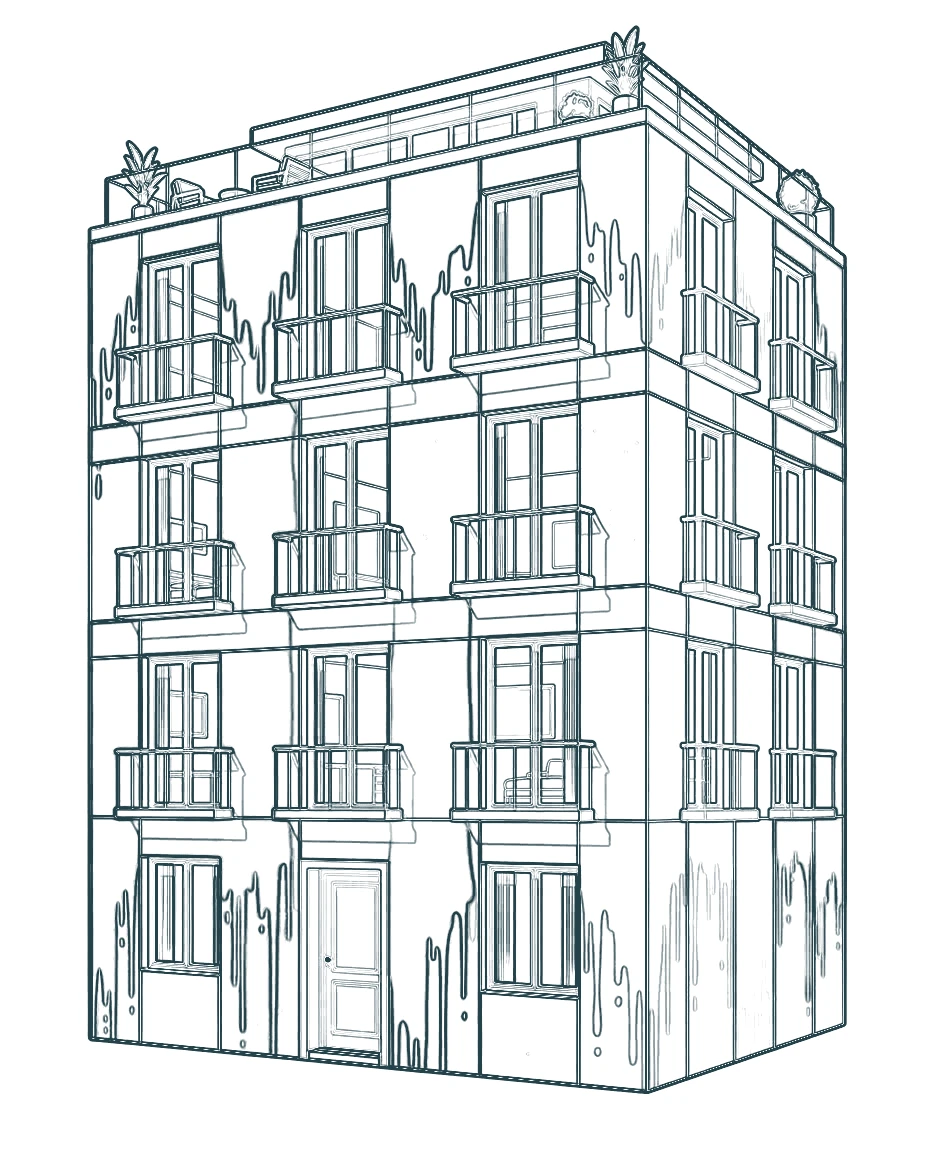
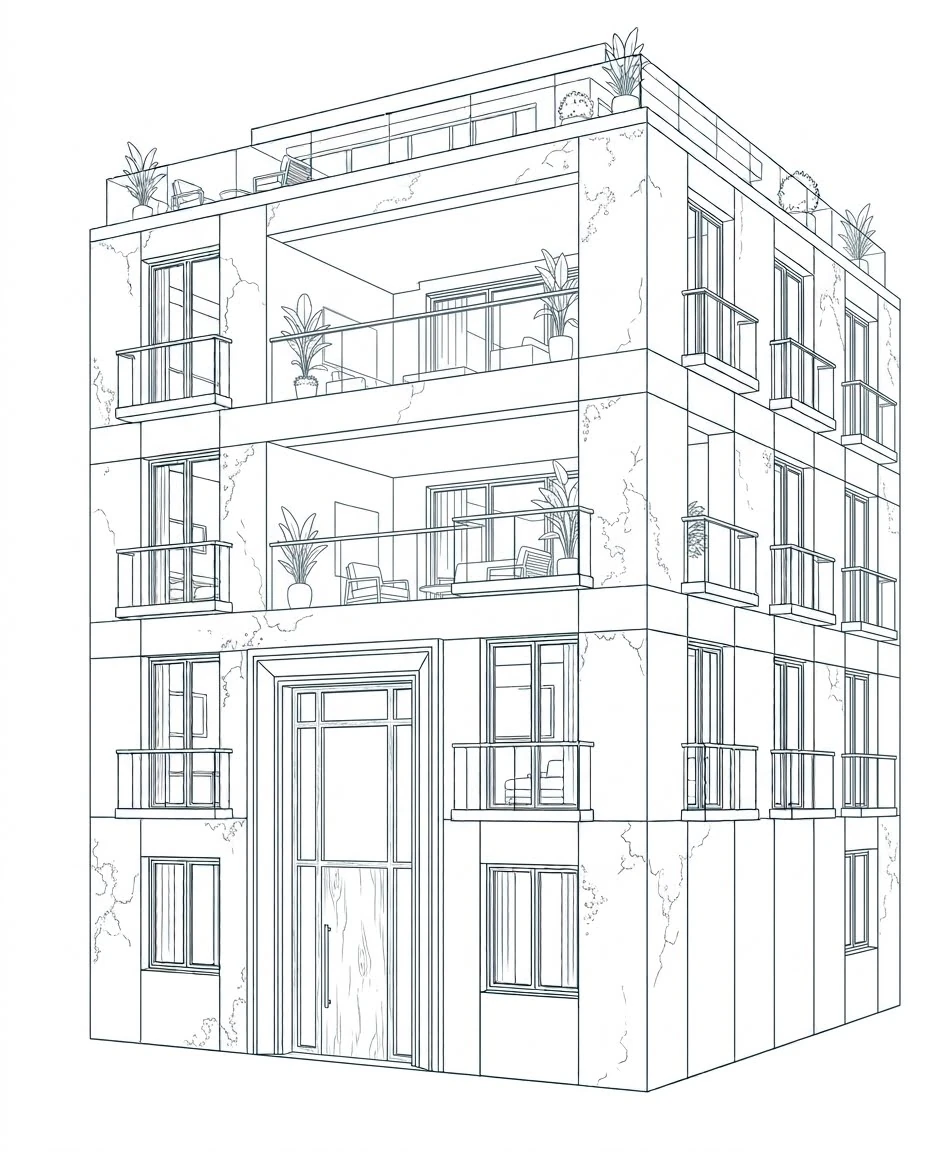
Página inicial: prédio novo com três camadas de tinta que escorrem umas sobre as outras
Claude-Session: https://claude.ai/code/session_01SPDKY3VBD8WnLPQg8GohVX

Changed region(s): [[0.0938, 0.0, 0.9688, 0.9688]]

diff --git a/src/components/landing/PaintedHero.tsx b/src/components/landing/PaintedHero.tsx
@@ -6,8 +6,12 @@ import { useEffect, useRef, type ReactNode } from 'react';
 // Duas imagens do mesmo enquadramento (a de linha foi extraída da colorida, por isso coincidem ao pixel):
 // a cor é revelada por uma máscara que desce com o scroll, com gotas à frente.
 
+// Camadas de tinta: cada uma é uma cópia do mesmo prédio noutra paleta, revelada pela sua
+// própria máscara. A descida da página pinta uma camada a seguir à outra, por cima da anterior.
+
 const W = 928;
 const H = 1152;
+const LAYERS = 3;
 const DRIPS = [
   { x: 50, e: 120 },
   { x: 160, e: 70 },
@@ -20,22 +24,27 @@ const DRIPS = [
   { x: 890, e: 110 },
 ];
 const DRIP_W = 56;
+const clamp01 = (v: number) => Math.min(1, Math.max(0, v));
 
 export function PaintedHero({ children }: { children: ReactNode }) {
   const wrap = useRef<HTMLElement>(null);
-  const main = useRef<SVGRectElement>(null);
-  const drips = useRef<(SVGRectElement | null)[]>([]);
+  const mains = useRef<(SVGRectElement | null)[]>([]);
+  const drips = useRef<(SVGRectElement | null)[][]>(Array.from({ length: LAYERS }, () => []));
 
   useEffect(() => {
     const reduce = window.matchMedia('(prefers-reduced-motion: reduce)').matches;
     const paint = (p: number) => {
-      const y = p * (H + 160);
-      main.current?.setAttribute('height', String(y));
-      DRIPS.forEach((d, i) => {
-        const len = d.e * Math.min(1, p * 8) * (1 - p) ** 0.4;
-        drips.current[i]?.setAttribute('height', String(Math.max(0, len + 14)));
-        drips.current[i]?.setAttribute('y', String(y - 14));
-      });
+      for (let k = 0; k < LAYERS; k++) {
+        const pk = clamp01(p * LAYERS - k);
+        const y = pk * (H + 160);
+        mains.current[k]?.setAttribute('height', String(y));
+        DRIPS.forEach((d, i) => {
+          const len = d.e * (0.7 + 0.3 * ((i + k) % 3)) * Math.min(1, pk * 8) * (1 - pk) ** 0.4;
+          const el = drips.current[k]?.[i];
+          el?.setAttribute('height', String(Math.max(0, len + 14)));
+          el?.setAttribute('y', String(y - 14));
+        });
+      }
     };
     if (reduce) {
       paint(1);
@@ -64,7 +73,7 @@ export function PaintedHero({ children }: { children: ReactNode }) {
   }, []);
 
   return (
-    <section ref={wrap} className="relative h-[210vh]">
+    <section ref={wrap} className="relative h-[330vh]">
       <div className="sticky top-14 mx-auto grid h-[calc(100vh-3.5rem)] max-w-6xl content-center gap-6 px-4 lg:grid-cols-2 lg:items-center">
         <div>{children}</div>
         <svg
@@ -74,26 +83,39 @@ export function PaintedHero({ children }: { children: ReactNode }) {
           aria-label="Prédio que se colore com a descida da página"
         >
           <defs>
-            <mask id="queda-de-tinta" maskUnits="userSpaceOnUse" x="0" y="0" width={W} height={H}>
-              <rect ref={main} x="0" y="0" width={W} height="0" fill="#fff" />
-              {DRIPS.map((d, i) => (
+            {Array.from({ length: LAYERS }, (_, k) => (
+              <mask key={k} id={`tinta-${k}`} maskUnits="userSpaceOnUse" x="0" y="0" width={W} height={H}>
                 <rect
-                  key={d.x}
                   ref={(el) => {
-                    drips.current[i] = el;
+                    mains.current[k] = el;
                   }}
-                  x={d.x - DRIP_W / 2}
+                  x="0"
                   y="0"
-                  width={DRIP_W}
+                  width={W}
                   height="0"
-                  rx={DRIP_W / 2}
                   fill="#fff"
                 />
-              ))}
-            </mask>
+                {DRIPS.map((d, i) => (
+                  <rect
+                    key={d.x}
+                    ref={(el) => {
+                      drips.current[k]![i] = el;
+                    }}
+                    x={((d.x + k * 41) % (W - 20)) - DRIP_W / 2}
+                    y="0"
+                    width={DRIP_W}
+                    height="0"
+                    rx={DRIP_W / 2}
+                    fill="#fff"
+                  />
+                ))}
+              </mask>
+            ))}
           </defs>
           <image href="/img/predio-linha.webp" width={W} height={H} />
-          <image href="/img/predio-cor.webp" width={W} height={H} mask="url(#queda-de-tinta)" />
+          {Array.from({ length: LAYERS }, (_, k) => (
+            <image key={k} href={`/img/predio-cor-${k + 1}.webp`} width={W} height={H} mask={`url(#tinta-${k})`} />
+          ))}
         </svg>
       </div>
     </section>
